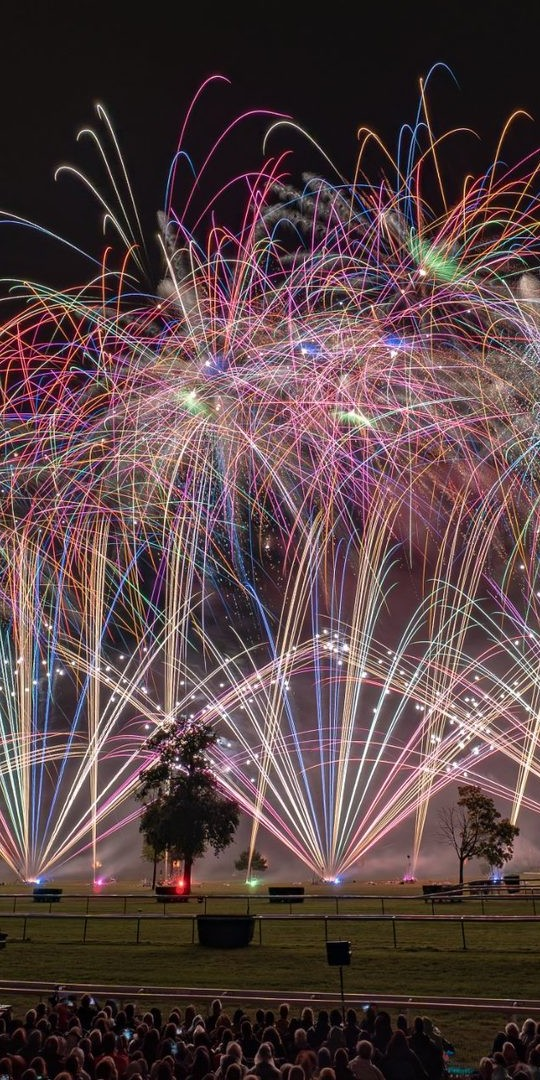
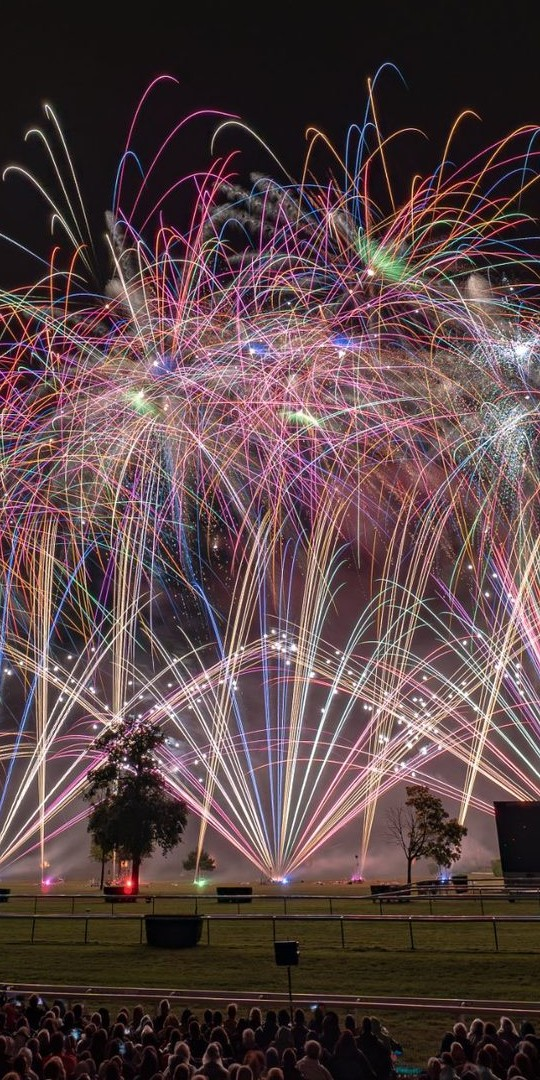
Startseite: Show-Kachel auf den markierten Punkt zentriert
Claude-Session: https://claude.ai/code/session_01QhcQSyaPqWh9SfbxJbcUBo

diff --git a/index.html b/index.html
@@ -286,7 +286,7 @@
 <!-- 3 · LEISTUNGEN -->
 <section class="cards" id="leistungen">
   <div class="wrap cards__grid">
-    <a class="card" href="shows.html"><div class="card__img"><img loading="lazy" decoding="async" src="img/shows.jpg?v=4" alt="Buntes Feuerwerk über einer Rennbahn vor Publikum"></div><span class="card__label">SHOWS</span></a>
+    <a class="card" href="shows.html"><div class="card__img"><img loading="lazy" decoding="async" src="img/shows.jpg?v=5" alt="Buntes Feuerwerk über einer Rennbahn vor Publikum"></div><span class="card__label">SHOWS</span></a>
     <a class="card" href="shop.html"><div class="card__img"><img loading="lazy" decoding="async" src="img/vertrieb.jpg" alt="Paletten mit Feuerwerkskartons"></div><span class="card__label">SHOP</span></a>
     <a class="card" href="effekte.html"><div class="card__img"><img loading="lazy" decoding="async" src="img/sfx.jpg?v=2" alt="Brennender Phönix im Feuerring"></div><span class="card__label">SPECIAL EFFECTS</span></a>
     <a class="card" href="rental.html"><div class="card__img"><img loading="lazy" decoding="async" src="img/rental.jpg?v=2" alt="Fünf Effektgeräte von Magic FX und Spark Fabrica im schwarzen Studio"></div><span class="card__label">RENTAL</span></a>
